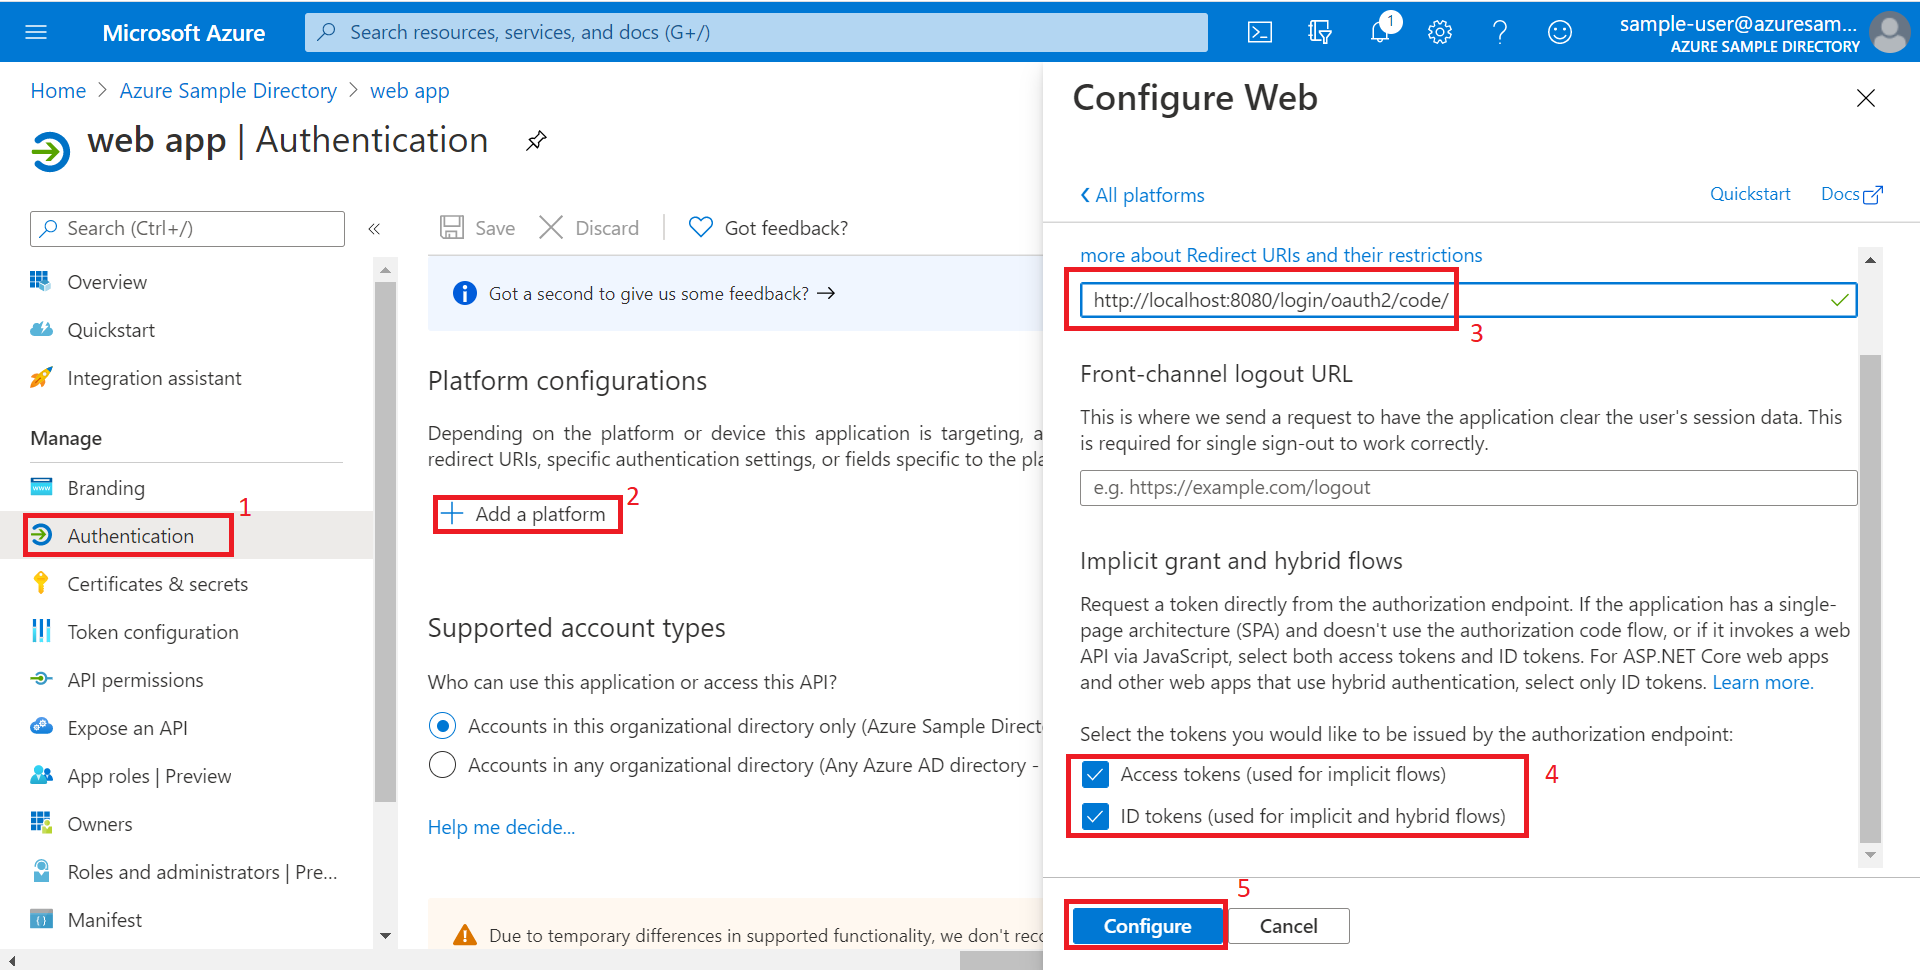
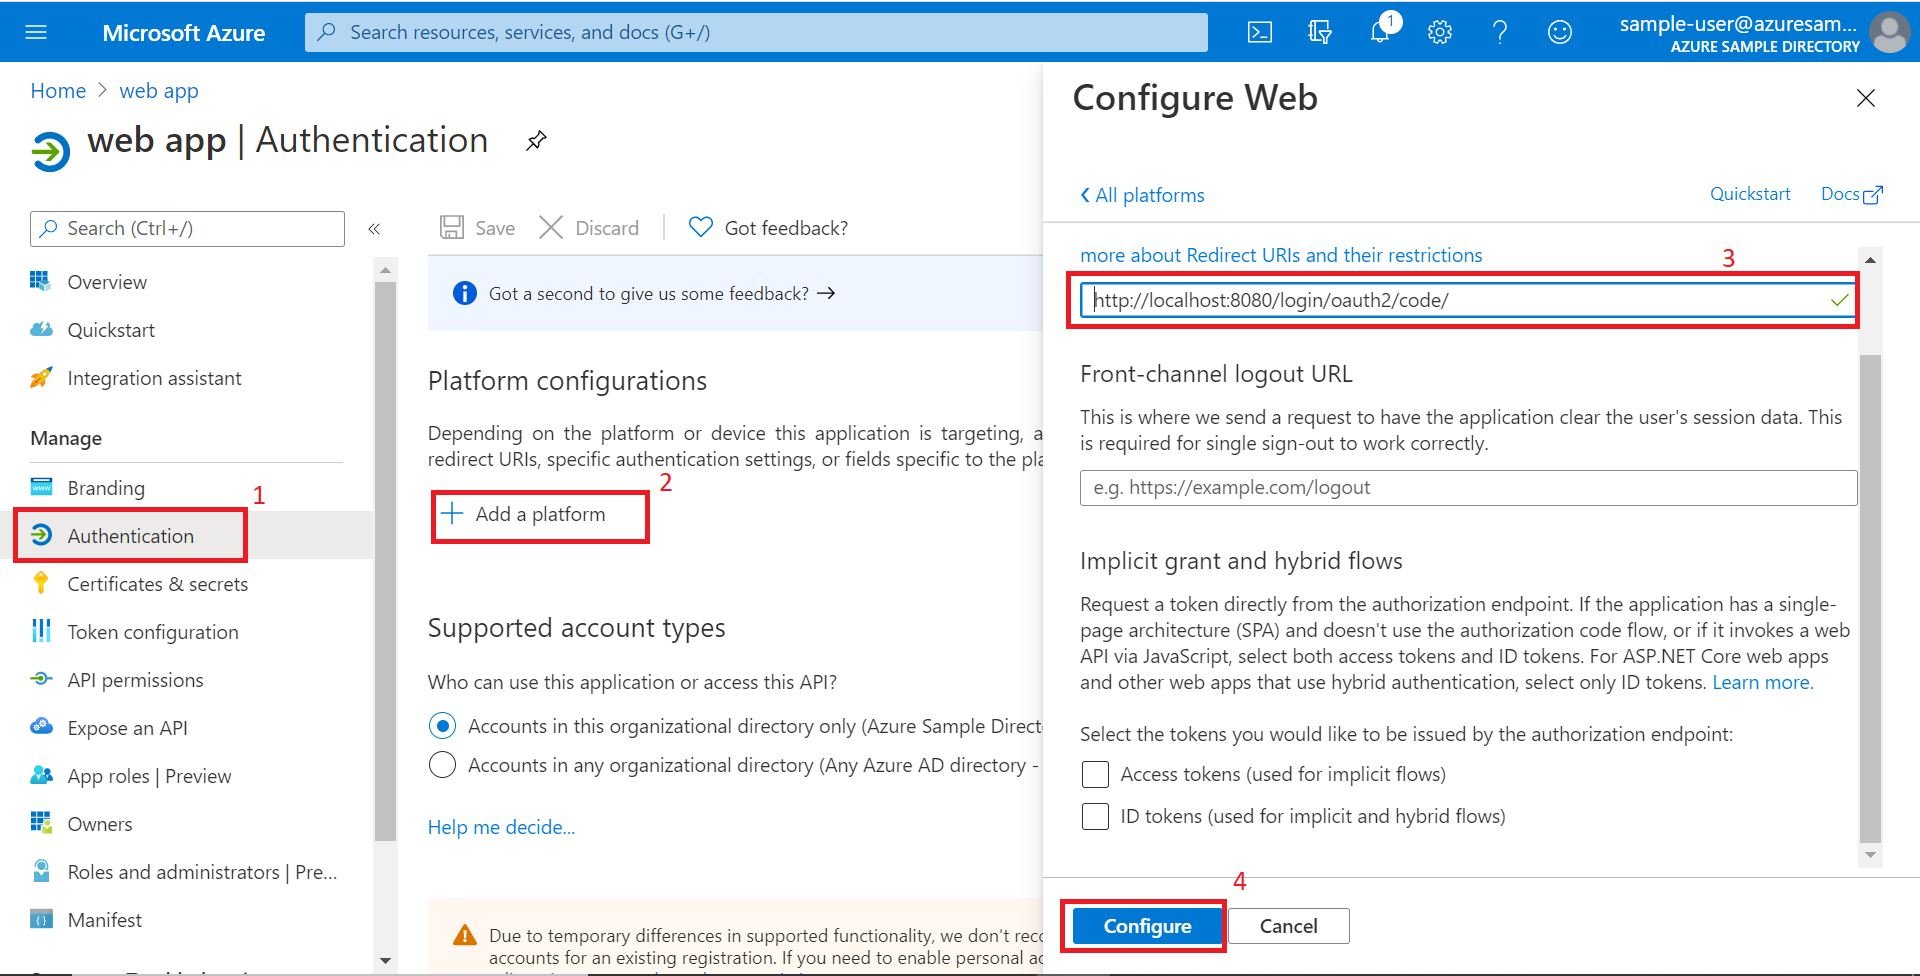
Remove tokens configuration and trim some indentations

diff --git a/sdk/spring/azure-spring-boot-samples/azure-spring-boot-sample-active-directory-webapp/README.md b/sdk/spring/azure-spring-boot-samples/azure-spring-boot-sample-active-directory-webapp/README.md
@@ -12,7 +12,7 @@ We need to ensure that this [environment checklist][ready-to-run-checklist] is c
 1. Under Manage In the same tenant, select **App registrations** -> **New registration**.![Portal manage](docs/image-portal-manage.png "Portal manage")
 1. The registered application name is filled into `webapp`, select **Accounts in this organizational directory only**, click the **register** button.![Register a web app](docs/image-register-a-web-app.png "Register a web app")
 1. Under **webapp** application, select **Certificates & secrets** -> **new client secret**, click the **add** button.(Remember to save the secrets here and use them later.)![Create secrets](docs/image-create-app-secrets.png "Create secrets")![Create secrets](docs/image-secret-value.png "Create Secrets")
-1. Under **webapp** application, select **Authentication** -> **Add a platform**, select **web** platform, redirect urls set to `http://localhost:8080/login/oauth2/code/`, check the **Access Tokens** and **ID Tokens** checkboxes, click **configure** button.![Add a platform](docs/image-add-a-platform.png "Add a platform")
+1. Under **webapp** application, select **Authentication** -> **Add a platform**, select **web** platform, redirect urls set to `http://localhost:8080/login/oauth2/code/`, click **configure** button.![Add a platform](docs/image-add-a-platform.png "Add a platform")
 1. Under **webapp** application, select **API permissions** -> **Add a permission**, select **Microsoft Graph**. Next, search `Directory.Read.All` via **select Permissions**, check the check box, click **add permissions** button.(`User.Read` is created automatically, we need to keep it.)![Request Api permission](docs/image-request-api-permissions.png "Request Api permission")
 1. Similarly, add permission **user_impersonation** in **Azure Service Management**,
    ![Added permissions](docs/image-permissions.png "Added permissions")
@@ -26,21 +26,21 @@ In order to try the authorization action with this sample with minimum effort, [
 ### Configure application.yml
 ```yaml
 azure:
-   activedirectory:
-      authorization-clients:
-         arm:
-            on-demand: true
-            scopes: https://management.core.windows.net/user_impersonation
-         graph:
-            scopes:
-               - https://graph.microsoft.com/User.Read
-               - https://graph.microsoft.com/Directory.Read.All
-      client-id: <client-id>
-      client-secret: <client-secret>
-      tenant-id: <tenant-id>
-      user-group:
-         allowed-groups: group1, group2
-      post-logout-redirect-uri: http://localhost:8080
+  activedirectory:
+    authorization-clients:
+      arm:
+        on-demand: true
+        scopes: https://management.core.windows.net/user_impersonation
+      graph:
+        scopes:
+          - https://graph.microsoft.com/User.Read
+          - https://graph.microsoft.com/Directory.Read.All
+    client-id: <client-id>
+    client-secret: <client-secret>
+    tenant-id: <tenant-id>
+    user-group:
+      allowed-groups: group1, group2
+    post-logout-redirect-uri: http://localhost:8080
 # It's suggested the logged in user should at least belong to one of the above groups
 # If not, the logged in user will not be able to access any authorization controller rest APIs
 ```
